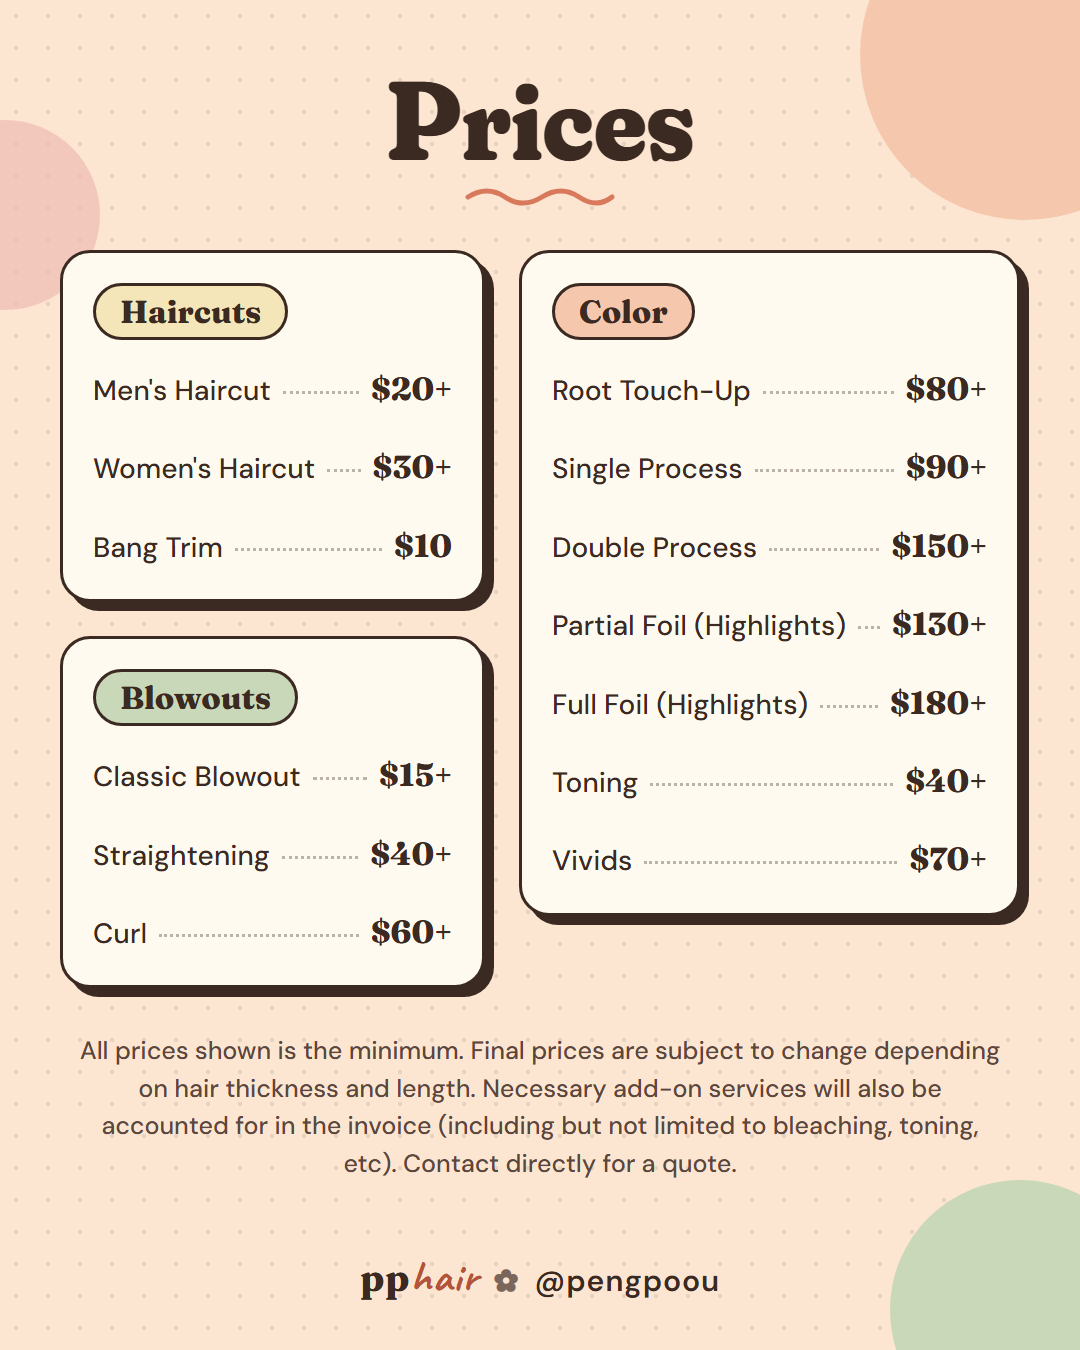
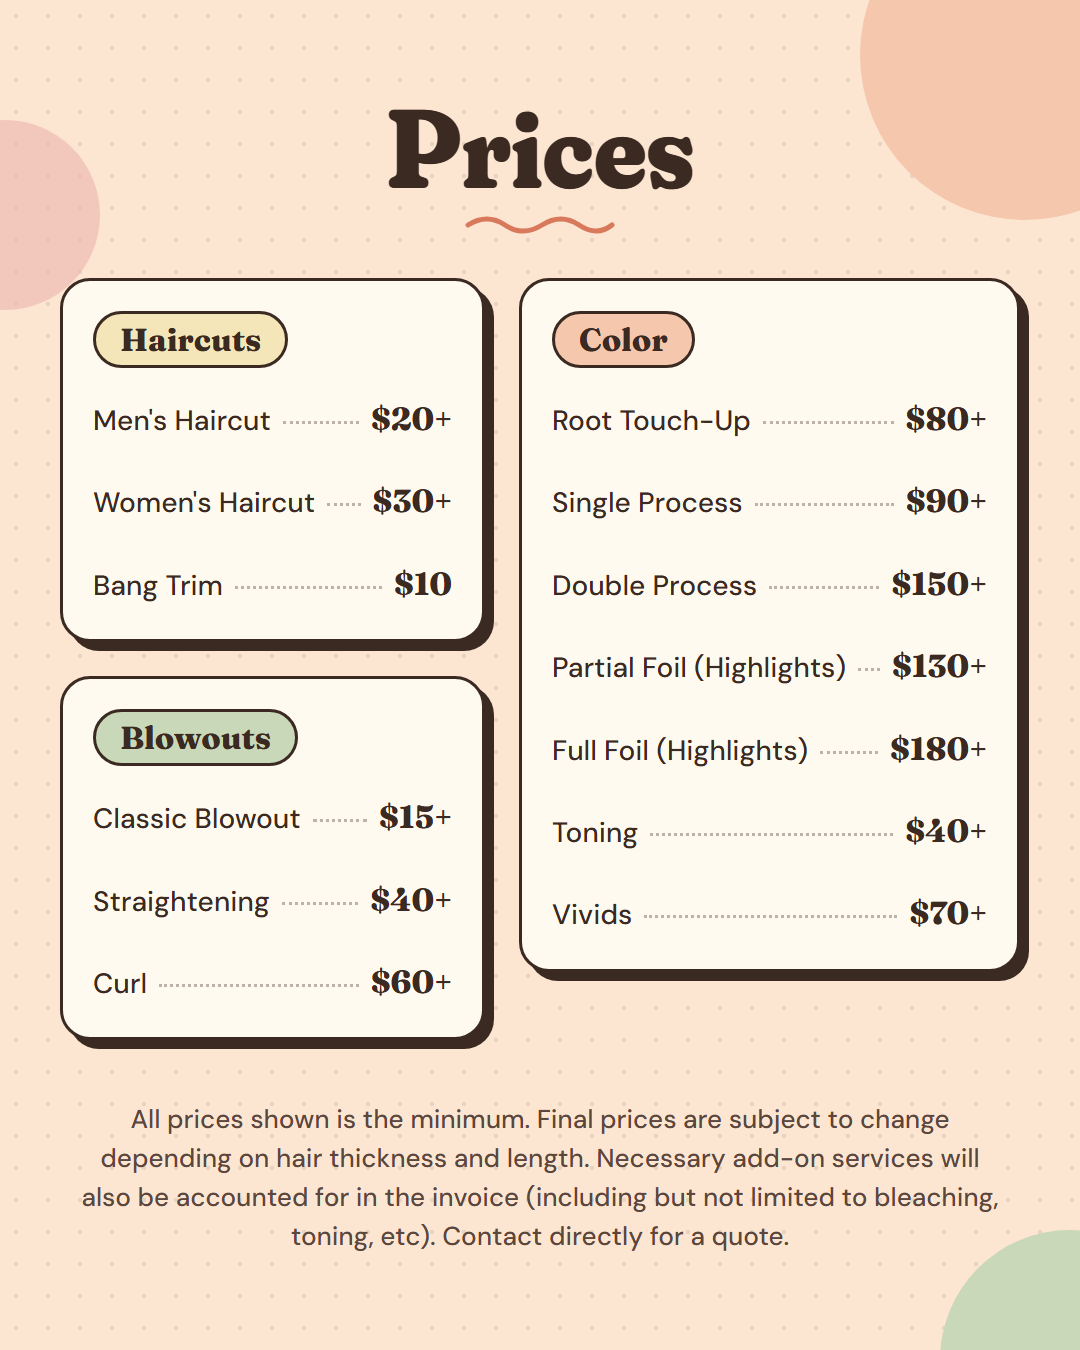
Instagram carousel: combine slides 2 and 3, remove footer tags

Changed region(s): [[0.0306, 0.0622, 1.0, 1.0]]

diff --git a/instagram/carousel.html b/instagram/carousel.html
@@ -26,11 +26,10 @@
 <body>
   <a class="ig-logo" href="../" aria-label="pp hair, home">pp<span>hair</span></a>
   <h1>Carousel post</h1>
-  <p class="ig-sub">Three slides, each 1080 &times; 1350. Swipe sideways to look through them, then save each one in order: prices first, then what&rsquo;s included.</p>
+  <p class="ig-sub">Two slides, each 1080 &times; 1350. Swipe sideways to look through them, then save each one in order: prices first, then what&rsquo;s included.</p>
   <div class="ig-row">
-    <div class="ig-slide"><p>Slide 1 of 3</p><img class="ig-img" src="slide-1-prices.png" width="1080" height="1350" alt="pphair price list"><a class="btn ig-btn" href="slide-1-prices.png" download="pphair-1-prices.png">Download</a></div>
-    <div class="ig-slide"><p>Slide 2 of 3</p><img class="ig-img" src="slide-2-color.png" width="1080" height="1350" alt="What's included: color services"><a class="btn ig-btn" href="slide-2-color.png" download="pphair-2-color.png">Download</a></div>
-    <div class="ig-slide"><p>Slide 3 of 3</p><img class="ig-img" src="slide-3-blowouts.png" width="1080" height="1350" alt="What's included: blowouts"><a class="btn ig-btn" href="slide-3-blowouts.png" download="pphair-3-blowouts.png">Download</a></div>
+    <div class="ig-slide"><p>Slide 1 of 2</p><img class="ig-img" src="slide-1-prices.png" width="1080" height="1350" alt="pphair price list"><a class="btn ig-btn" href="slide-1-prices.png" download="pphair-1-prices.png">Download</a></div>
+    <div class="ig-slide"><p>Slide 2 of 2</p><img class="ig-img" src="slide-2-included.png" width="1080" height="1350" alt="What's included: color and blowout services"><a class="btn ig-btn" href="slide-2-included.png" download="pphair-2-included.png">Download</a></div>
   </div>
   <p class="ig-note"><a href="prices.html">&larr; Single price image</a></p>
 </body>

diff --git a/instagram/prices.html b/instagram/prices.html
@@ -31,6 +31,6 @@
     <img class="ig-img" src="slide-1-prices.png" width="1080" height="1350" alt="pphair price list: haircuts, color and blowouts">
     <a class="btn ig-btn" href="slide-1-prices.png" download="pphair-prices.png">Download image</a>
   </div>
-  <p class="ig-note"><a href="carousel.html">See the 3-slide carousel version &rarr;</a></p>
+  <p class="ig-note"><a href="carousel.html">See the 2-slide carousel version &rarr;</a></p>
 </body>
 </html>
